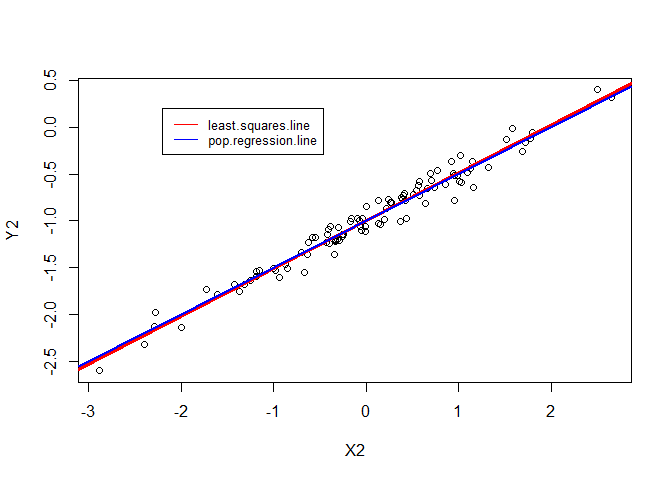
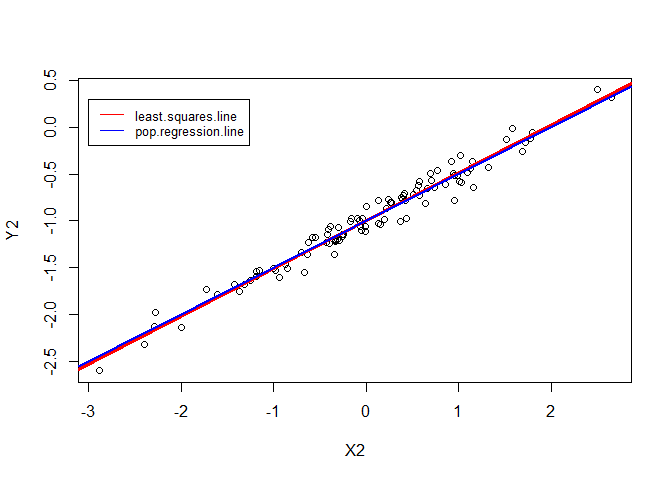
updated plots

Changed region(s): [[0.1875, 0.2188, 0.4688, 0.3125]]

diff --git a/chapter3-2017.12.06/chapter3-1.html b/chapter3-2017.12.06/chapter3-1.html
@@ -563,9 +563,9 @@ summary(XY2.lm.fit)</code></pre>
 <pre class="r"><code>plot(X2,Y2)
 abline(XY2.lm.fit,lwd=3,col=&quot;red&quot;)
 abline(coef= c(-1,0.5),lwd=2,col=&quot;blue&quot;)
-legend(-2.2,0.2, legend=c(&quot;least.squares.line&quot;, &quot;pop.regression.line&quot;),
+legend(-3,0.3, legend=c(&quot;least.squares.line&quot;, &quot;pop.regression.line&quot;),
        col=c(&quot;red&quot;, &quot;blue&quot;), lty=1, cex=0.8)</code></pre>
[2 lines of base64/hex data omitted]
 <ol style="list-style-type: lower-roman">
 <li>Repeat (a)–(f) after modifying the data generation process in such a way that there is more noise in the data. The model (3.39) should remain the same. You can do this by increasing the variance of the normal distribution used to generate the error term E in (b). Describe your results.</li>
 </ol>
@@ -662,9 +662,9 @@ summary(XY3.lm.fit)</code></pre>
 <pre class="r"><code>plot(X3,Y3)
 abline(XY3.lm.fit,lwd=3,col=&quot;red&quot;)
 abline(coef= c(-1,0.5),lwd=2,col=&quot;blue&quot;)
-legend(-2.2,1.6, legend=c(&quot;least.squares.line&quot;, &quot;pop.regression.line&quot;),
+legend(-3,1, legend=c(&quot;least.squares.line&quot;, &quot;pop.regression.line&quot;),
        col=c(&quot;red&quot;, &quot;blue&quot;), lty=1, cex=0.8)</code></pre>
[2 lines of base64/hex data omitted]
 <ol start="10" style="list-style-type: lower-alpha">
 <li>What are the conﬁdence intervals for β 0 and β 1 based on the original data set, the noisier data set, and the less noisy data set? Comment on your results.</li>
 </ol>

diff --git a/chapter3-2017.12.06/chapter3-1.md b/chapter3-2017.12.06/chapter3-1.md
@@ -682,7 +682,7 @@ confint(XY2.lm.fit)
 plot(X2,Y2)
 abline(XY2.lm.fit,lwd=3,col="red")
 abline(coef= c(-1,0.5),lwd=2,col="blue")
-legend(-2.2,0.2, legend=c("least.squares.line", "pop.regression.line"),
+legend(-3,0.3, legend=c("least.squares.line", "pop.regression.line"),
        col=c("red", "blue"), lty=1, cex=0.8)
 ```
 
@@ -820,7 +820,7 @@ confint(XY3.lm.fit)
 plot(X3,Y3)
 abline(XY3.lm.fit,lwd=3,col="red")
 abline(coef= c(-1,0.5),lwd=2,col="blue")
-legend(-2.2,1.6, legend=c("least.squares.line", "pop.regression.line"),
+legend(-3,1, legend=c("least.squares.line", "pop.regression.line"),
        col=c("red", "blue"), lty=1, cex=0.8)
 ```
 
